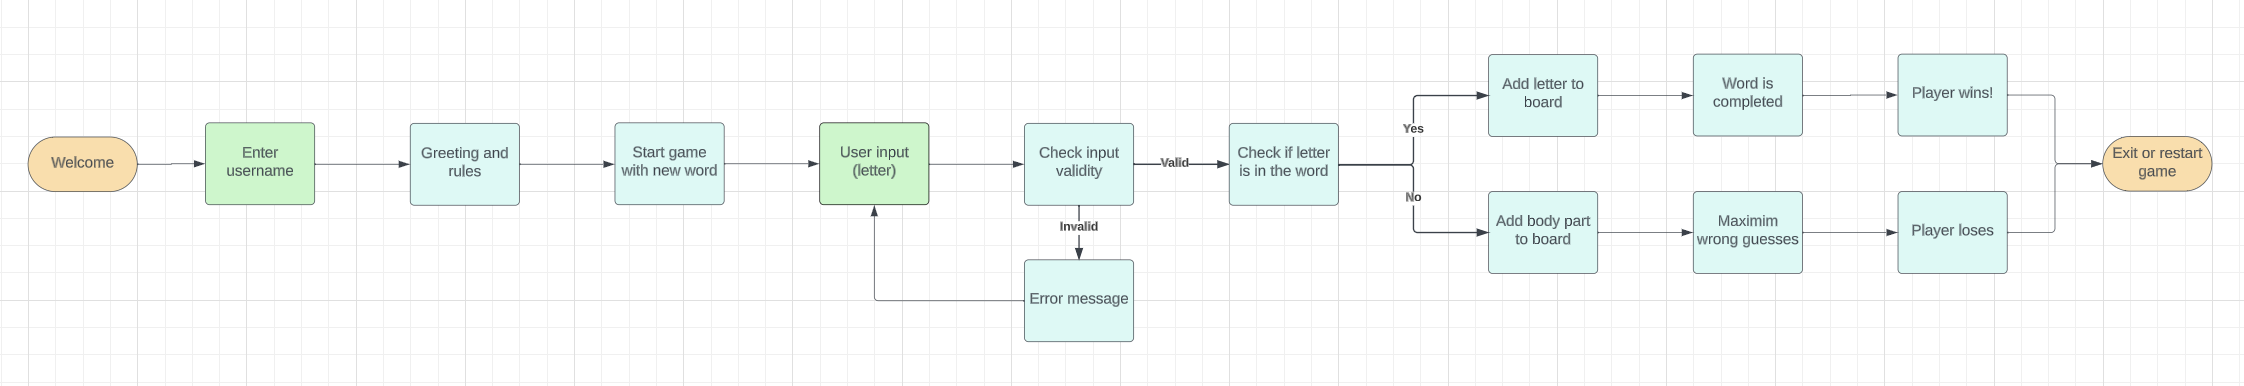
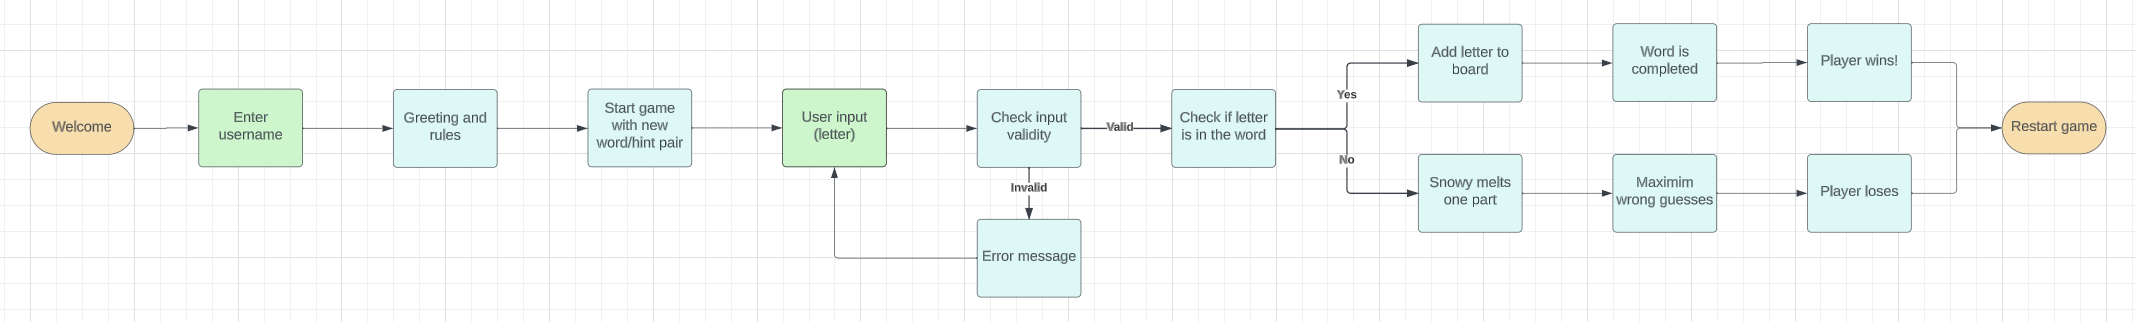
Fix bug that caused an extra space at the beginning of lines of user feedback

diff --git a/words_list.py b/words_list.py
@@ -1,35 +1,33 @@
 """
 Dictionary to hold words and hints suggested by my mentor.
-Words and definitions adapted from Weather Words:
-https://www.metoffice.gov.uk/weather/learn-about/met-office-for-schools/other-content/other-resources/weather-words
-And EnglishClub Weather Vocabulary:
-https://www.englishclub.com/vocabulary/weather-vocabulary.php
+Words and definitions adapted from Weather Words
+and EnglishClub Weather Vocabulary.
 """
 
 word_hint = {
-'fog': 'A cloud on the ground',
-'shovel': 'A hand tool',
-'frigid': 'Intensely cold',
-'atmosphere': 'What is all around us',
-'blizzard': 'A severe winter storm',
-'rainbow': 'A beautiful arc',
-'ozone': 'It reflects sunlight back into space',
-'frost': 'Frozen crystals',
-'humidity': 'Water vapor in the air',
-'lightning': 'An electric flash',
-'breeze': 'A light wind',
-'drizzling': 'Raining slightly',
-'hail': 'Small pieces of falling ice',
-'thermometer': 'A measuring instrument',
-'umbrella': 'Rain protection',
-'sunscreen': 'Protective cream',
-'season': 'Time of year',
-'clear': 'When there are no clouds',
-'avalanche': 'A slide of snow',
-'parka': 'Winter coat',
-'sunhat': 'Provides shade',
-'star': 'It twinkles',
-'frostbite': 'Caused by overexposure',
-'scorching': 'Extremely hot',
-'smog': 'Urban haze'
+    'fog': 'A cloud on the ground',
+    'shovel': 'A hand tool',
+    'frigid': 'Intensely cold',
+    'atmosphere': 'What is all around us',
+    'blizzard': 'A severe winter storm',
+    'rainbow': 'A beautiful arc',
+    'ozone': 'It reflects sunlight back into space',
+    'frost': 'Frozen crystals',
+    'humidity': 'Water vapor in the air',
+    'lightning': 'An electric flash',
+    'breeze': 'A light wind',
+    'drizzling': 'Raining slightly',
+    'hail': 'Small pieces of falling ice',
+    'thermometer': 'A measuring instrument',
+    'umbrella': 'Rain protection',
+    'sunscreen': 'Protective cream',
+    'season': 'Time of year',
+    'clear': 'When there are no clouds',
+    'avalanche': 'A slide of snow',
+    'parka': 'Winter coat',
+    'sunhat': 'Provides shade',
+    'star': 'It twinkles',
+    'frostbite': 'Caused by overexposure',
+    'scorching': 'Extremely hot',
+    'smog': 'Urban haze'
 }

diff --git a/run.py b/run.py
@@ -66,17 +66,16 @@ class Snowy:
         """
         if data not in self.word:
             self.tries -= 1
-            print(
-                10*"\n", f"Sorry, that letter is not in the word.\n"
-                "You have {self.tries}"
-                " more chances.")
+            print(10*"\n")
+            print(f"Sorry, that letter is not in the word.\n"
+                f"You have {self.tries} more chances.")
 
         while data in self.word:
             i = self.word.index(data)
             self.secret_word[i] = data
             self.word[i] = "."
-            print(
-                10*"\n", f"Great job! You have {self.tries}"
+            print(10*"\n")
+            print(f"Great job! You have {self.tries}"
                 " more chances.")
 
     def word_complete(self):

diff --git a/README.md b/README.md
@@ -36,7 +36,7 @@ Happy coding! -->
 <!-- Mockup -->
 
 Snowy Melt is a mystery-word guessing game for one player. It is written as a Python command-line game. Based on a hint and the word length, the player guesses letters to complete the word. With each wrong guess, Snowy the snowman melts away.<br>
-The game is designed to be fun and entertaining for people of every age and ability.
+The game is designed to be fun and entertaining for people of every age and ability. You can find it [here](https://snowy-melt-ad37e9d6291f.herokuapp.com/).
 
 ## Features 
 
@@ -57,64 +57,15 @@ End <br>
 After the mystery word is solved or the player runs out of guesses, the game shows win or lose feedback with special graphics for each, and gives the user an option to play again.
 
 ### Design
-I used Lucidchart to design the flow of this game's functions. <br> ![Flow chart](readme-images/flow-chart.png)
-
-<!-- - __Navigation Bar__
-
-  - Featured on all three pages, the full responsive navigation bar includes links to the Logo, Home page, Gallery and Sign Up page and is identical in each page to allow for easy navigation.
-  - This section will allow the user to easily navigate from page to page across all devices without having to revert back to the previous page via the ‘back’ button. 
-
-![Nav Bar](https://github.com/lucyrush/readme-template/blob/master/media/love_running_nav.png)
-
-- __The landing page image__
-
-  - The landing includes a photograph with text overlay to allow the user to see exactly which location this site would be applicable to. 
-  - This section introduces the user to Love Running with an eye catching animation to grab their attention
-
-![Landing Page](https://github.com/lucyrush/readme-template/blob/master/media/love_running_landing.png)
-
-- __Club Ethos Section__
-
-  - The club ethos section will allow the user to see the benefits of joining the Love Running meetups, as well as the benefits of running overall. 
-  - This user will see the value of signing up for the Love Running meetups. This should encourage the user to consider running as their form of exercise. 
-
-![Club Ethos](https://github.com/lucyrush/readme-template/blob/master/media/love_running_ethos.png)
-
-- __Meetup Times section__
-
-  - This section will allow the user to see exactly when the meetups will happen, where they will be located and how long the run will be in kilometers. 
-  - This section will be updated as these times change to keep the user up to date. 
-
-![Meetup Times](https://github.com/lucyrush/readme-template/blob/master/media/love_running_times.png)
-
-- __The Footer__ 
-
-  - The footer section includes links to the relevant social media sites for Love Running. The links will open to a new tab to allow easy navigation for the user. 
-  - The footer is valuable to the user as it encourages them to keep connected via social media
-
-![Footer](https://github.com/lucyrush/readme-template/blob/master/media/love_running_footer.png)
-
-- __Gallery__
-
-  - The gallery will provide the user with supporting images to see what the meet ups look like. 
-  - This section is valuable to the user as they will be able to easily identify the types of events the organisation puts together. 
-
-![Gallery](https://github.com/lucyrush/readme-template/blob/master/media/love_running_gallery.png)
-
-- __The Sign Up Page__
-
-  - This page will allow the user to get signed up to Love Running to start their running journey with the community. The user will be able specify if they would like to take part in road, trail or both types of running. The user will be asked to submit their full name and email address. 
-
-![Sign Up](https://github.com/lucyrush/readme-template/blob/master/media/love_running_signup.png)
-
-For some/all of your features, you may choose to reference the specific project files that implement them.
-
-In addition, you may also use this section to discuss plans for additional features to be implemented in the future: -->
+I used Lucidchart to design the flow of this game's functions. <br> ![Flow chart](readme-images/flow-chart.png)<br>
+I designed this game with a weather theme. In a small, simple game like this, a theme makes it more cohesive and fun for the user. It is meant to be entertaining for anyone, so the words are all different lengths, and some of the words and hints are easier than others. The user might not win every round, but the game is designed so that they will always discover something quirky and enjoyable!
 
 ### Future implementations
 
 - Feedback about how many guesses the user took to win
 - A more advanced scoring system
+- Levels of difficulty
+- Different themes for the words and images
 
 ## Technologies used
 Python <br>
@@ -125,14 +76,17 @@ Git <br>
 Gitpod
 
 ## Testing 
-This game was tested throughout development in the terminal in VS Code, and in a deployed version using Heroku.
+This game was tested throughout development in the terminal in VS Code. It was deployed and tested using Heroku.
+
+### Functionality
+The game is written in a run.py file, and the images and word/hint pairs are stored in two other .py files. These files are imported into the main file, which gets a random wod/hint pair for each round, and iterates through the images to show the user the visual of a melting snowman. This functionality is designed to be simple and to run without errors.
 
 ### Bugs
-Here are a few of the bugs I dealt with during development.
+Here are a few of the bugs I fixed during development.
 - Press any key to start the game <br>
-I researched a tried several ways to implement this, including import keyboard and using various functions which did not work for me. But then I found other advice arguing that using the input() function was probably the best solution in Python. The result was that the user presses Enter to start the game and play again.
+I researched and tried several ways to implement this, including "import keyboard" and using various functions which did not work for me. But then I found other advice arguing that using the "input()" function was probably the best solution in Python. The result is that in the finished game the user presses Enter to start the game and to play again.
 - Get word/hint pairs from a dictionary <br>
-Originally I had a list of words and a list of hints, but I needed them to be connected so that the pair showed in the same round of the game. My mentor helped me create a dictionary of pairs instead of two lists. Code Institute tutoring (Rebeccca) directed me toward a [resource](https://stackoverflow.com/questions/4859292/how-can-i-get-a-random-key-value-pair-from-a-dictionary/4859322#4859322) so that I could get a random pair first. Then I figured out how to get the word and the hint from there, and send them to the right place.
+Originally I had a list of words and a separate list of hints, but I needed them to be connected so that the pair showed in the same round of the game. My mentor helped me create a dictionary of pairs instead of two lists. Code Institute tutoring (Rebeccca) directed me toward a [resource](https://stackoverflow.com/questions/4859292/how-can-i-get-a-random-key-value-pair-from-a-dictionary/4859322#4859322) so that I could get a random pair first. Then I figured out how to get the word and the hint from there, and send them to the right place.
 - The upper() function <br>
 In order for the guessed letter to be validated, both the guess and the letters in the word must be uppercase. At first I didn't understand where this function should go. I did a lot of trial and error, and printing. After I changed the functionality of getting the word/hint pairs, I had to figure it out again.
 - Re-starting the game <br>
@@ -148,15 +102,11 @@ If this section grows too long, you may want to split it off into a separate fil
 
 ### Code Validation 
 
-I validated the app with the [Code Institute Python Linter](https://pep8ci.herokuapp.com/). The errors were blank spaces, incorrect indentation, and lines that were too long. There are now no errors.<br> ![Linter result](readme-images/linter-result.png)
-
-### Unfixed Bugs
-
-<!-- You will need to mention unfixed bugs and why they were not fixed. This section should include shortcomings of the frameworks or technologies used. Although time can be a big variable to consider, paucity of time and difficulty understanding implementation is not a valid reason to leave bugs unfixed.  -->
+I validated the code in the three .py files with the [Code Institute Python Linter](https://pep8ci.herokuapp.com/). The errors were blank spaces, incorrect indentation, and lines that were too long. There are now no errors.<br> Code in run.py: ![Linter result1](readme-images/linter-result1.png)<br>Code in snowy_images: ![Linter result2](readme-images/linter-result2.png)<br>Code in words_list: ![Linter result3](readme-images/linter-result3.png)<br>
 
 ## Deployment
 
-This app was deployed using Heroku. The live link can be found [here](https://snowy-melt-ad37e9d6291f.herokuapp.com/).
+This app was deployed using Heroku. The deployment terminal is 80 columns by 24 rows. The live link can be found [here](https://snowy-melt-ad37e9d6291f.herokuapp.com/).
 
 ## Finished game
 <!-- Screenshots -->
@@ -166,30 +116,11 @@ This app was deployed using Heroku. The live link can be found [here](https://sn
 - The idea for a word-guessing game featuring a snowman came from [this website](https://rhodygirlresources.com/product/digital-sight-word-games-snowman-melt/).
 - The ascii character was inspired by images [here](https://amgrubb.github.io/csc111/lab-5-loopFunc.html) and [here](https://www.momsarefrommars.com/moms-blog/category/ascii%20art).
 - The words and definitions were adapted from content found in [Weather Words](https://www.metoffice.gov.uk/weather/learn-about/met-office-for-schools/other-content/other-resources/weather-words) and [EnglishClub Weather Vocabulary](https://www.englishclub.com/vocabulary/weather-vocabulary.php).
+- This [resource](https://stackoverflow.com/questions/4859292/how-can-i-get-a-random-key-value-pair-from-a-dictionary/4859322#4859322) for accessing a random pair was provided by CI tutoring (Rebecca).
+- I would like to thank my Code Institute mentor, Adegbenga Adeye, for walking me through new information with patient support. <br>
+- Thanks to my cohort facilitator, David Calikes, for kind and helpful reassurance during this project, and great ideas for future implementations.
 
-Thank you to my mentor,
-
-This [resource](https://stackoverflow.com/questions/4859292/how-can-i-get-a-random-key-value-pair-from-a-dictionary/4859322#4859322) for accessing a random pair was provided by CI tutoring (Rebecca).
-
-
-
-<!-- In this section you need to reference where you got your content, media and extra help from. It is common practice to use code from other repositories and tutorials, however, it is important to be very specific about these sources to avoid plagiarism. 
-
-You can break the credits section up into Content and Media, depending on what you have included in your project.  -->
-
-### Content 
-
-<!-- - The text for the Home page was taken from Wikipedia Article A
-- Instructions on how to implement form validation on the Sign Up page was taken from [Specific YouTube Tutorial](https://www.youtube.com/)
-- The icons in the footer were taken from [Font Awesome](https://fontawesome.com/) -->
-
-### Media
-
-<!-- - The photos used on the home and sign up page are from This Open Source site
-- The images used for the gallery page were taken from this other open source site
-
-
-Congratulations on completing your Readme, you have made another big stride in the direction of being a developer!  -->
+<!-- Congratulations on completing your Readme, you have made another big stride in the direction of being a developer! -->
 
 <!-- ## Other General Project Advice -->
 
